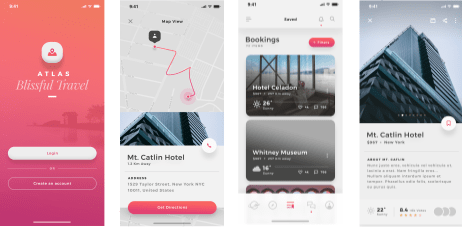
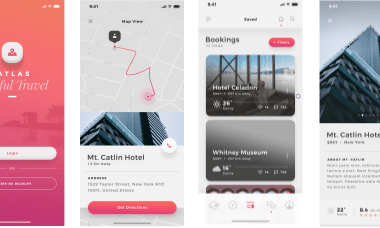
image improvments

diff --git a/styles/css.css b/styles/css.css
@@ -51,7 +51,7 @@ section {
   width: 100%;
   background-color: #00a7e7;
   font-size: 2vw;
-  color: white;
+  color: #494949;
   font-weight: lighter;
   letter-spacing: 1px;
   padding-left: 10px;
@@ -226,6 +226,7 @@ section {
   top: 5%;
   height: 90%;
   width: 60%;
+  border-radius: 5px;
   margin-right: -10%;
   float: right;
 }
